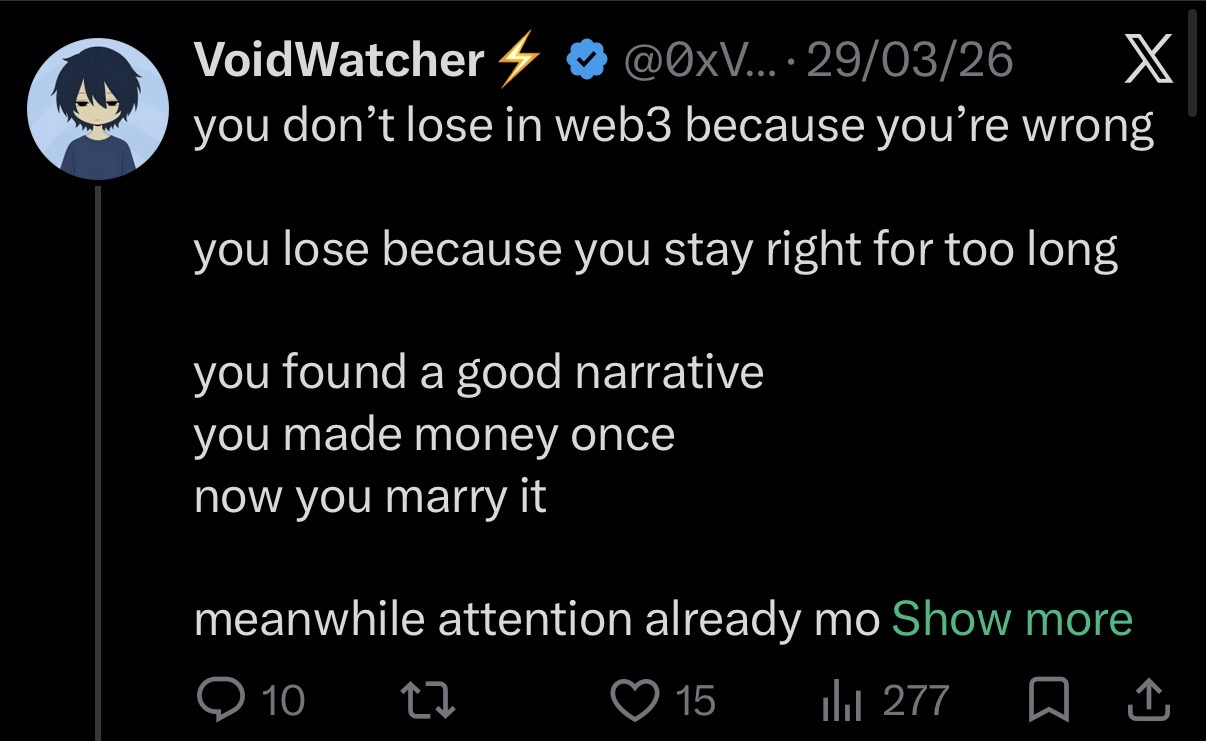
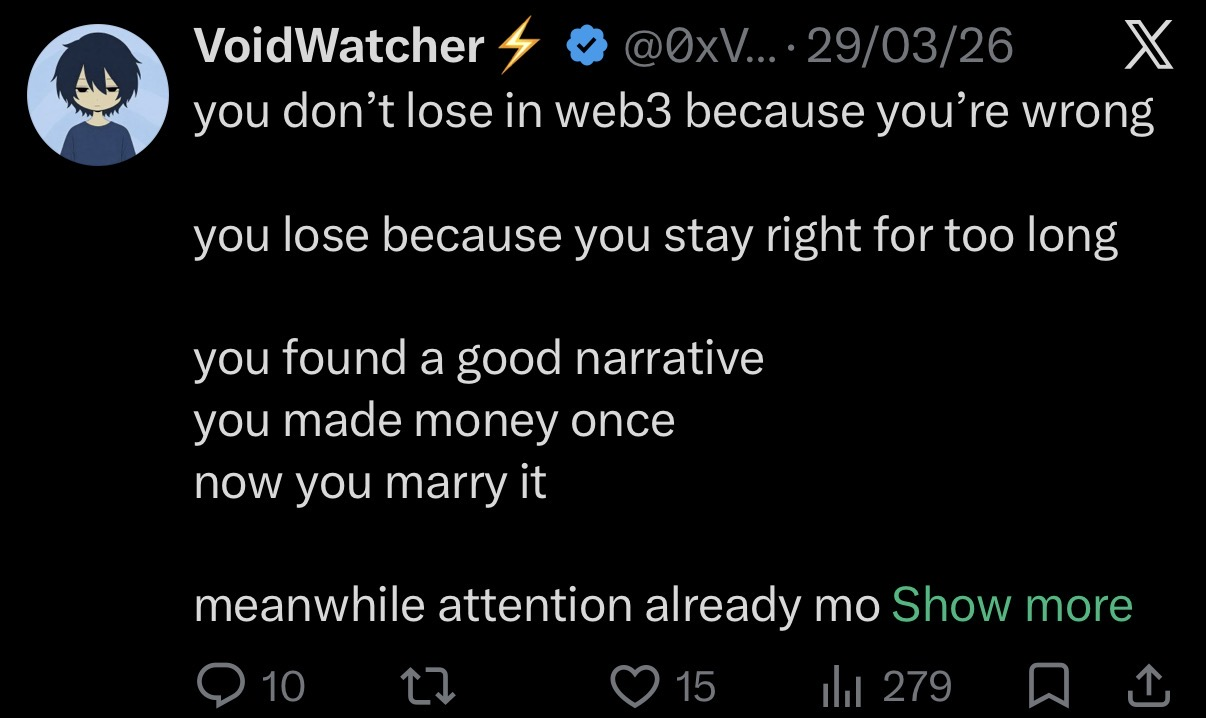
Add files via upload

diff --git a/index.html b/index.html
@@ -292,7 +292,7 @@
           <div class="tag">Crypto commentary</div>
           <h3>Research over social proof.</h3>
           <p>A sharp take on avoiding consensus-driven crypto theses and doing the actual research.</p>
-          <div class="post-foot"><span>258 views · 22 likes</span><a href="https://x.com/0xvoidwatcher/status/2090299791741952256?s=46" target="_blank" rel="noopener">VIEW ON X ↗</a></div>
+          <div class="post-foot"><span>261 views · 22 likes</span><a href="https://x.com/0xvoidwatcher/status/2090299791741952256?s=46" target="_blank" rel="noopener">VIEW ON X ↗</a></div>
         </div>
       </article>
 
@@ -302,7 +302,7 @@
           <div class="tag">Emerging projects</div>
           <h3>Project discovery &amp; analysis.</h3>
           <p>Exploring Sight and the idea of prediction markets moving onchain through Robinhood.</p>
-          <div class="post-foot"><span>255 views · 22 likes</span><a href="https://x.com/0xvoidwatcher/status/2090537372329152968?s=46" target="_blank" rel="noopener">VIEW ON X ↗</a></div>
+          <div class="post-foot"><span>257 views · 22 likes</span><a href="https://x.com/0xvoidwatcher/status/2090537372329152968?s=46" target="_blank" rel="noopener">VIEW ON X ↗</a></div>
         </div>
       </article>
 
@@ -312,7 +312,7 @@
           <div class="tag">NFTs / digital culture</div>
           <h3>Watching the details others miss.</h3>
           <p>Calling out an unexpected mint-fee change and the onchain configuration behind it.</p>
-          <div class="post-foot"><span>460 views · 22 likes</span><a href="https://x.com/0xvoidwatcher/status/2090825632188088429?s=46" target="_blank" rel="noopener">VIEW ON X ↗</a></div>
+          <div class="post-foot"><span>466 views · 22 likes</span><a href="https://x.com/0xvoidwatcher/status/2090825632188088429?s=46" target="_blank" rel="noopener">VIEW ON X ↗</a></div>
         </div>
       </article>
 
@@ -322,7 +322,7 @@
           <div class="tag">Memecoins / narratives</div>
           <h3>Don't marry a narrative.</h3>
           <p>Why staying attached to yesterday's winning narrative can become the actual trade you lose.</p>
-          <div class="post-foot"><span>277 views · 15 likes</span><a href="https://x.com/0xvoidwatcher/status/2038233430581027010?s=46" target="_blank" rel="noopener">VIEW ON X ↗</a></div>
+          <div class="post-foot"><span>279 views · 15 likes</span><a href="https://x.com/0xvoidwatcher/status/2038233430581027010?s=46" target="_blank" rel="noopener">VIEW ON X ↗</a></div>
         </div>
       </article>
 
@@ -332,7 +332,7 @@
           <div class="tag">Crypto Twitter / culture</div>
           <h3>Airdrop farmer pain.</h3>
           <p>CT-native shitposting around eligibility checkers, wallets and the realities of farming.</p>
-          <div class="post-foot"><span>512 views · 53 likes</span><a href="https://x.com/0xvoidwatcher/status/2047688650042020106?s=46" target="_blank" rel="noopener">VIEW ON X ↗</a></div>
+          <div class="post-foot"><span>516 views · 53 likes</span><a href="https://x.com/0xvoidwatcher/status/2047688650042020106?s=46" target="_blank" rel="noopener">VIEW ON X ↗</a></div>
         </div>
       </article>
 
@@ -342,7 +342,7 @@
           <div class="tag">Crypto Twitter / culture</div>
           <h3>Never underestimate good assets.</h3>
           <p>Personality-led NFT commentary with a real conviction story behind the post.</p>
-          <div class="post-foot"><span>368 views · 38 likes</span><a href="https://x.com/0xvoidwatcher/status/2093137521207345586?s=46" target="_blank" rel="noopener">VIEW ON X ↗</a></div>
+          <div class="post-foot"><span>371 views · 38 likes</span><a href="https://x.com/0xvoidwatcher/status/2093137521207345586?s=46" target="_blank" rel="noopener">VIEW ON X ↗</a></div>
         </div>
       </article>
 
